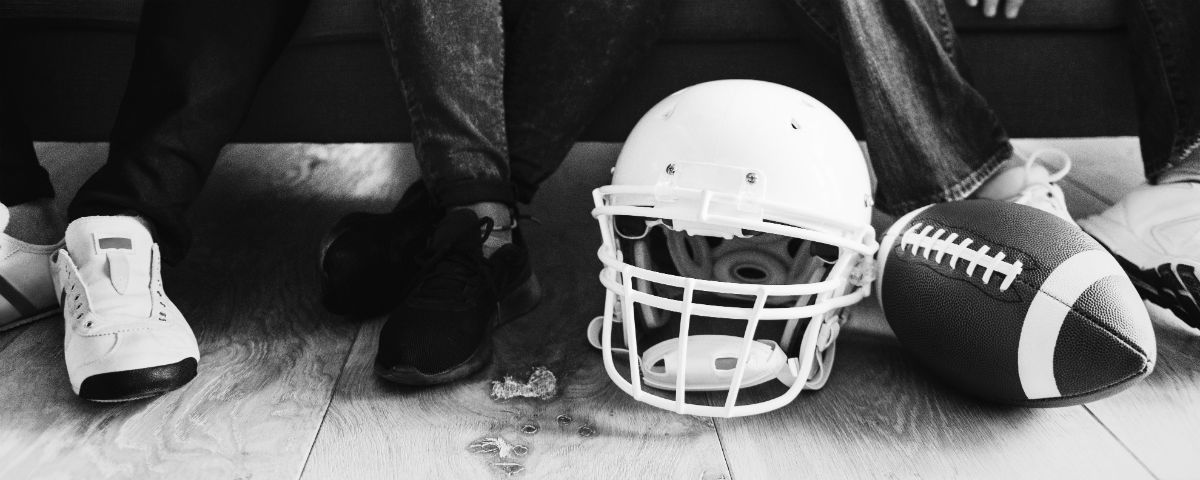
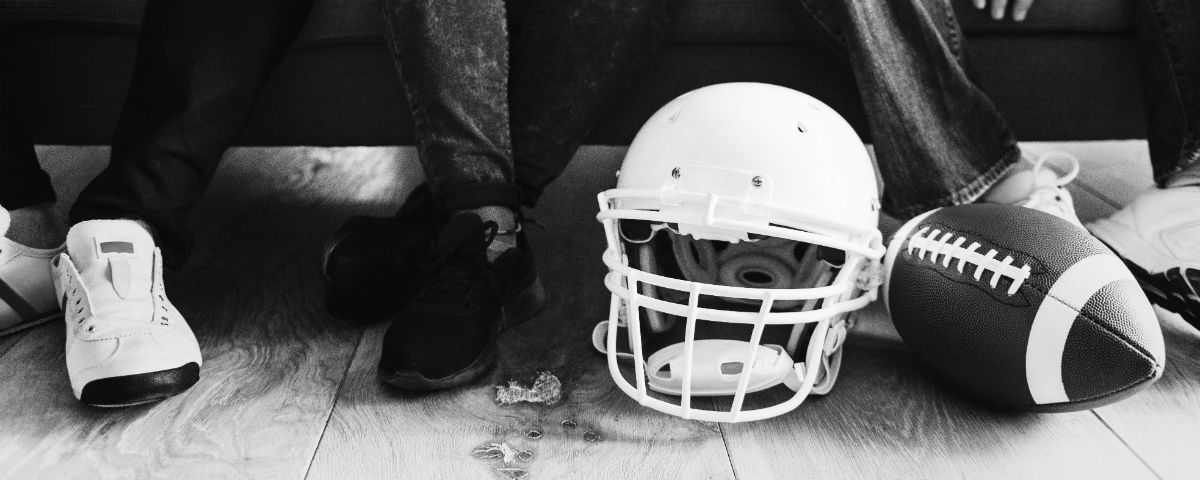
adding links

diff --git a/index.html b/index.html
@@ -29,9 +29,9 @@
           </div>
           <div class="collapse navbar-collapse" id="myNavbar">
             <ul class="nav navbar-nav navbar-right">
-              <li><a href="#"><span class="glyphicon glyphicon-download"></span> Resume</a></li>
-              <li><a href="#"><span class="glyphicon glyphicon-question-sign"></span> About</a></li>
-              <li><a href="#"><span class="glyphicon glyphicon-pencil"></span> Projects</a></li>
+              <li><a href="resources/Resume-2019.pdf" download=Resume-2019><span class="glyphicon glyphicon-download"></span> Resume</a></li>
+              <li><a href="#about"><span class="glyphicon glyphicon-question-sign"></span> About</a></li>
+              <li><a href="#projects"><span class="glyphicon glyphicon-pencil"></span> Projects</a></li>
               <li><a href="#"><span class="glyphicon glyphicon-envelope"></span> Contact</a></li>
             </ul>
           </div>
@@ -59,7 +59,7 @@
           </div>
 
           <div class="item">
-            <img src="resources\images\teamwork.jpg" style="width:100%;">
+            <img src="resources\images\teamwork.jpg" style="width:100%; filter: grayscale(100%);">
             <div class="carousel-caption">
               <h2>Thrive in a Team</h2>
               <h4>"Individual commitment to a group effort--that is what makes a team
@@ -99,6 +99,7 @@
         </a>
       </div>
 
+      <a name="about"></a>
       <div class="about">
         <div class="aboutTitle" style="text-align: center">
           <h2 style="font-size: 40px;">About me</h2>
@@ -130,9 +131,10 @@
             <div class="col-lg-2 col-md-1 col-sm-0 col-xs-0">
             </div>
           </div>
+        </div>
       </div>
-    </div>
 
+      <a name="projects"></a>
       <div class="Projects">
         <div class="ProjectsTitle">
           <h2 style="font-size: 40px;">Projects</h2>
@@ -161,26 +163,30 @@
               <i class="itravel fab fa-github fa-3x"></i>
             </div>
             <div class="Project2 col-lg-3 col-md-4 col-sm-6 col-xs-12">
-              <img class="img-fluid" src="resources/images/website.jpeg" alt="">
-              <div class="caption">
-                <h1>MathieuGirard.me</h1>
-                <p>The website you are currently viewing! Orginal design stylized using a
-                  combination of boostrap grid and flexbox in HTML/CSS. Launched website
-                  using Github pages and Google Domains.
-                </p>
-              </div>
-              <i class="web fab fa-github fa-3x"></i>
+              <a class=Project2 href="https://github.com/MathieuGirard19/MathieuGirard19.github.io" target="_blank">
+                <img class="img-fluid" src="resources/images/website.jpeg" alt="">
+                <div class="caption">
+                  <h1>MathieuGirard.me</h1>
+                  <p>The website you are currently viewing! Orginal design stylized using a
+                    combination of boostrap grid and flexbox in HTML/CSS. Launched website
+                    using Github pages and Google Domains.
+                  </p>
+                </div>
+                <i class="web fab fa-github fa-3x"></i>
+              </a>
             </div>
-            <div class="Project3 col-lg-3 col-md-4 col-sm-6 col-xs-12">
-              <img class="img-fluid" src="resources/images/demo.jpg" alt="">
-              <div class="caption">
-                <h1>Bitmap Imaging</h1>
-                <p>Program developed in C++ that takes command line arguments to
-                  produce a bitmap image. The program utilized classes and containers
-                  while testing principles of polymorphism.
-                </p>
-              </div>
-              <i class="bit fab fa-github fa-3x"></i>
+            <div class="col-lg-3 col-md-4 col-sm-6 col-xs-12">
+              <a class=Project3 href="https://github.com/MathieuGirard19/bitmapImaging" target="_blank">
+                <img class="img-fluid" src="resources/images/demo.jpg" alt="">
+                  <div class="caption">
+                    <h1>Bitmap Imaging</h1>
+                    <p>Program developed in C++ that takes command line arguments to
+                      produce a bitmap image. The program utilized classes and containers
+                      while testing principles of polymorphism.
+                    </p>
+                  </div>
+                <i class="bit fab fa-github fa-3x"></i>
+              </a>
             </div>
           </div>
         </div>
